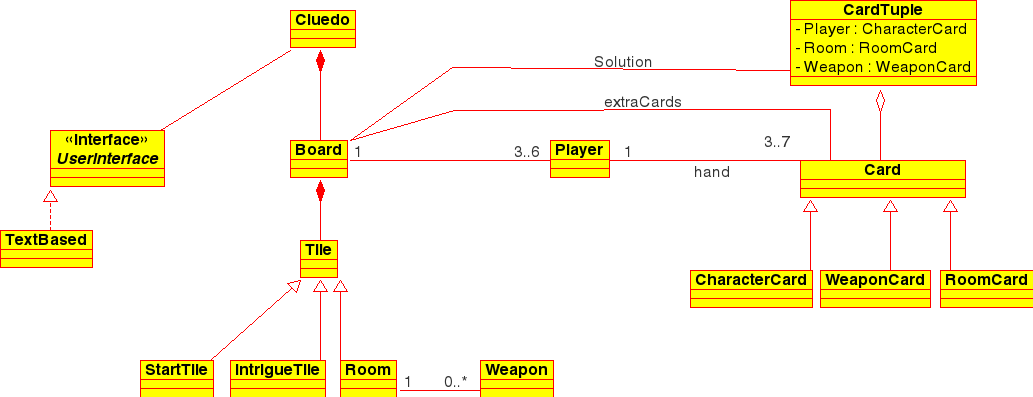
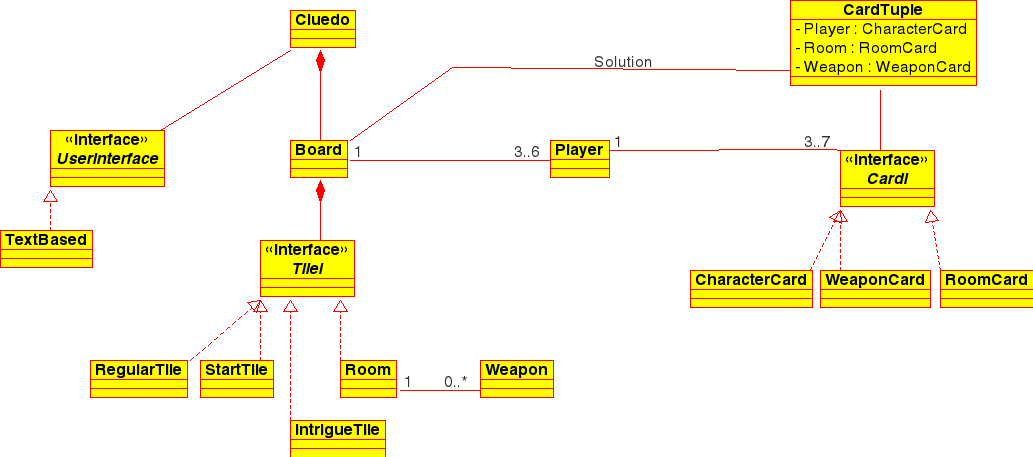
Initial commit, made all the classes.

diff --git a/src/cards/CardTuple.java b/src/cards/CardTuple.java
@@ -1,0 +1,37 @@
+package cards;
+
+public final class CardTuple {
+	private CharacterCard player;
+	private RoomCard room;
+	private WeaponCard weapon;
+
+	public CardTuple(CharacterCard p, RoomCard r, WeaponCard w) {
+		player = p;
+		room = r;
+		weapon = w;
+	}
+
+	public CharacterCard getPlayer() {
+		return player;
+	}
+
+	public void setPlayer(CharacterCard player) {
+		this.player = player;
+	}
+
+	public RoomCard getRoom() {
+		return room;
+	}
+
+	public void setRoom(RoomCard room) {
+		this.room = room;
+	}
+
+	public WeaponCard getWeapon() {
+		return weapon;
+	}
+
+	public void setWeapon(WeaponCard weapon) {
+		this.weapon = weapon;
+	}
+}

diff --git a/src/userinterface/TextBasedInterface.java b/src/userinterface/TextBasedInterface.java
@@ -1,0 +1,5 @@
+package userinterface;
+
+public class TextBasedInterface implements UserInterface {
+
+}

diff --git a/src/cards/CharacterCard.java b/src/cards/CharacterCard.java
@@ -1,0 +1,5 @@
+package cards;
+
+public class CharacterCard implements CardI {
+
+}

diff --git a/src/board/IntrigueTile.java b/src/board/IntrigueTile.java
@@ -1,0 +1,5 @@
+package board;
+
+public class IntrigueTile implements TileI {
+
+}

diff --git a/src/board/RegularTile.java b/src/board/RegularTile.java
@@ -1,0 +1,5 @@
+package board;
+
+public class RegularTile implements TileI {
+
+}

diff --git a/src/cards/WeaponCard.java b/src/cards/WeaponCard.java
@@ -1,0 +1,5 @@
+package cards;
+
+public class WeaponCard implements CardI {
+
+}

diff --git a/src/board/StartTile.java b/src/board/StartTile.java
@@ -1,0 +1,5 @@
+package board;
+
+public class StartTile implements TileI {
+
+}

diff --git a/src/cards/RoomCard.java b/src/cards/RoomCard.java
@@ -1,0 +1,5 @@
+package cards;
+
+public class RoomCard implements CardI {
+
+}

diff --git a/src/userinterface/UserInterface.java b/src/userinterface/UserInterface.java
@@ -1,0 +1,5 @@
+package userinterface;
+
+public interface UserInterface {
+
+}

diff --git a/src/board/Room.java b/src/board/Room.java
@@ -1,0 +1,5 @@
+package board;
+
+public class Room implements TileI {
+
+}

diff --git a/src/board/TileI.java b/src/board/TileI.java
@@ -1,0 +1,5 @@
+package board;
+
+public interface TileI {
+
+}

diff --git a/src/cards/CardI.java b/src/cards/CardI.java
@@ -1,0 +1,5 @@
+package cards;
+
+public interface CardI {
+
+}
